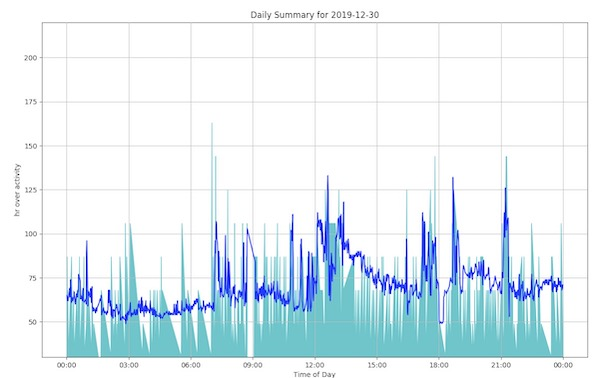
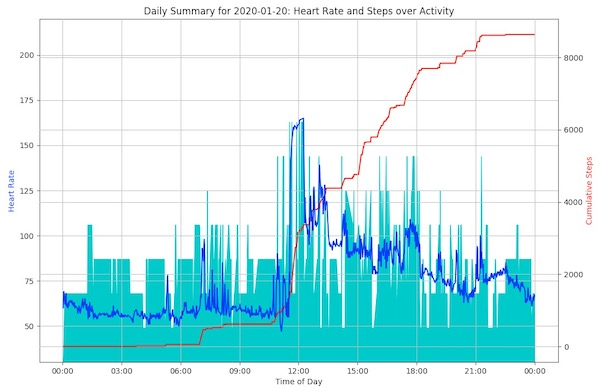
fix issues with graphs.py chnage to argparse; update daily graph screen shot

diff --git a/graphs.py b/graphs.py
@@ -19,7 +19,7 @@ import HealthDB
 import GarminDB
 import garmin_db_config_manager as GarminDBConfigManager
 from version import format_version
-from garmin_db_config import Statistics
+from statistics import Statistics
 from garmin_connect_config_manager import GarminConnectConfigManager
 
 
@@ -261,9 +261,10 @@ def main(argv):
     parser = argparse.ArgumentParser()
     parser.add_argument("-v", "--version", help="print the program's version", action='version', version=format_version(sys.argv[0]))
     parser.add_argument("-t", "--trace", help="Turn on debug tracing", type=int, default=0)
+    parser.add_argument("-S", "--save", help="Save graphs to images files.", action="store_true", default=False)
     # stat types to operate on
     stats_group = parser.add_argument_group('Statistics', 'Graph statistics over a period of time')
-    stats_group.add_argument("-A", "--all", help="Graph data for all enabled stats.", action='store_const', dest='stats', const=gc_config.enabled_stats(), default=[])
+    stats_group.add_argument("-A", "--all", help="Graph data for all enabled statistics.", action='store_const', dest='stats', const=gc_config.enabled_stats(), default=[])
     stats_group.add_argument("-m", "--monitoring", help="Graph monitoring data.", dest='stats', action='append_const', const=Statistics.monitoring)
     stats_group.add_argument("-r", "--hr", help="Graph heart rate data.", dest='stats', action='append_const', const=Statistics.rhr)
     stats_group.add_argument("-s", "--steps", help="Graph steps data.", dest='stats', action='append_const', const=Statistics.sleep)
